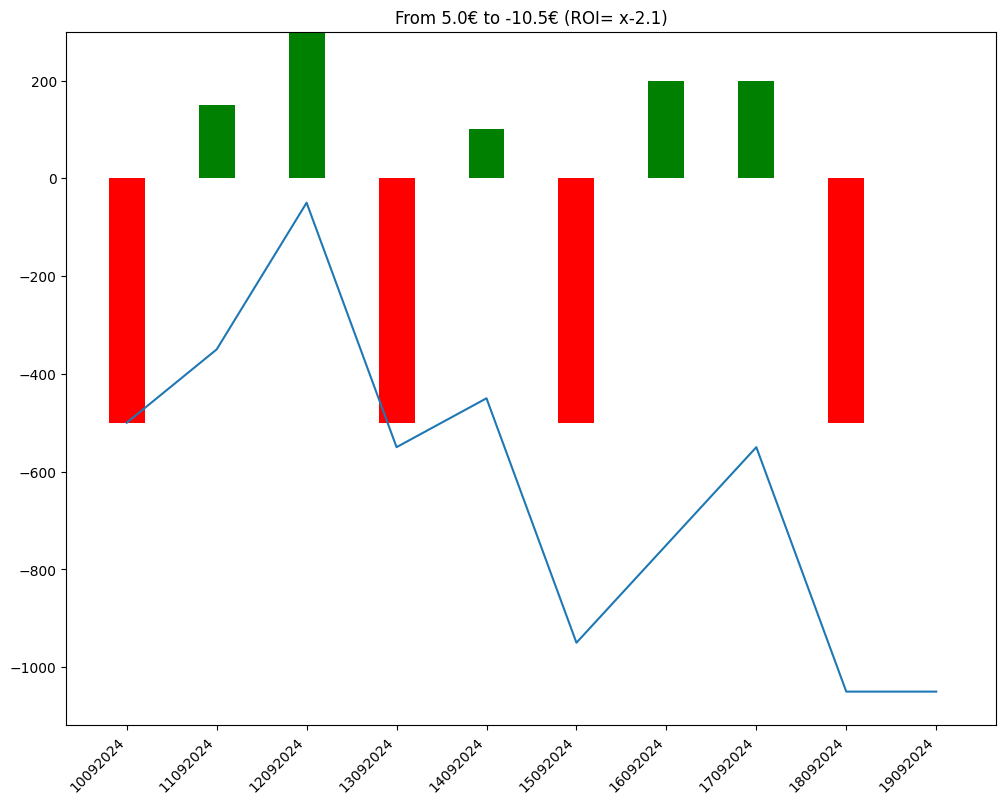
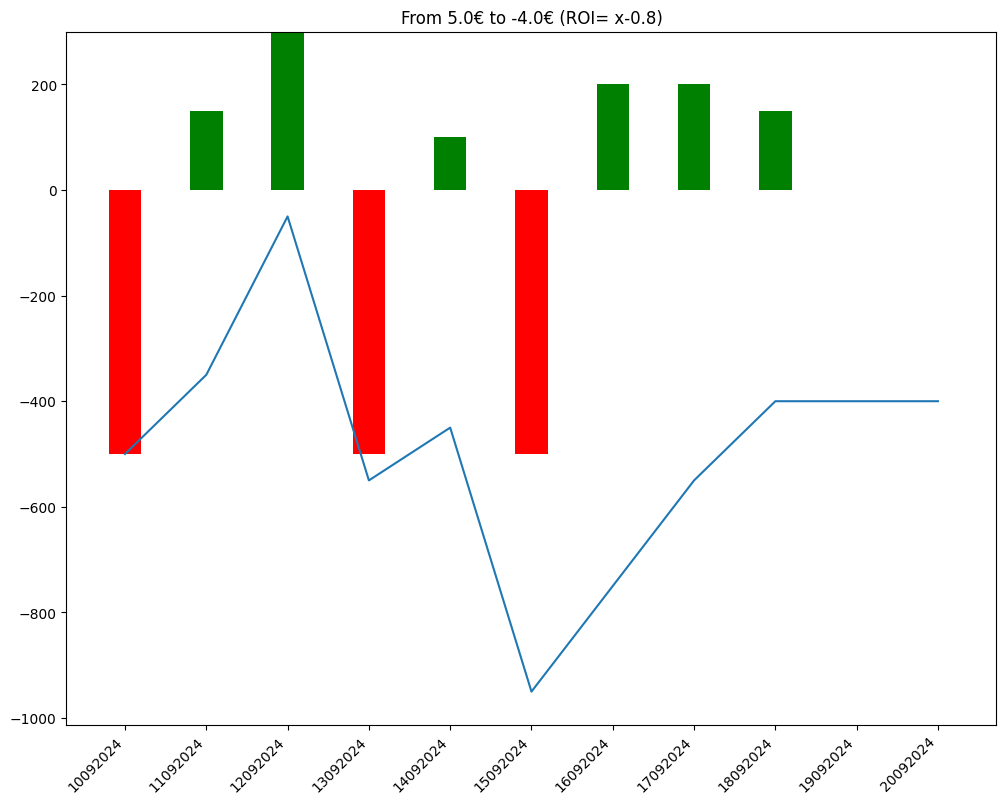
comment from python script

diff --git a/bethistory.html b/bethistory.html
@@ -86,8 +86,9 @@
             En observant la courbe 🤔, on peut avoir une idée visuelle de l'évolution des gains et ainsi évaluer le model utilisé 🧑🏫.
         </p>
         
-        <img src = "/candle.png" alt="candle chart"/><table><tr><td>Chevaux joués</td><td>Gains</td><td>URL Circuits</td></tr><tr><td>9 - SAVE US MELANIA</td><td>0</td><td><a href=https://www.pmu.fr/turf/19092024/r6/c5 target="_blank">https://www.pmu.fr/turf/19092024/r6/c5</a></td></tr>
-<tr><td>9 - CANDY DOLCE</td><td>-500</td><td><a href=https://www.pmu.fr/turf/18092024/r5/c9 target="_blank">https://www.pmu.fr/turf/18092024/r5/c9</a></td></tr>
+        <img src = "/candle.png" alt="candle chart"/><table><tr><td>Chevaux joués</td><td>Gains</td><td>URL Circuits</td></tr><tr><td>1 - ASHNAK</td><td>0</td><td><a href=https://www.pmu.fr/turf/20092024/r4/c3 target="_blank">https://www.pmu.fr/turf/20092024/r4/c3</a></td></tr>
+<tr><td>9 - SAVE US MELANIA</td><td>0</td><td><a href=https://www.pmu.fr/turf/19092024/r6/c5 target="_blank">https://www.pmu.fr/turf/19092024/r6/c5</a></td></tr>
+<tr><td>9 - CANDY DOLCE</td><td>+150</td><td><a href=https://www.pmu.fr/turf/18092024/r5/c9 target="_blank">https://www.pmu.fr/turf/18092024/r5/c9</a></td></tr>
 <tr><td>2 - YOUNG AND PROUD</td><td>+200</td><td><a href=https://www.pmu.fr/turf/17092024/r1/c2 target="_blank">https://www.pmu.fr/turf/17092024/r1/c2</a></td></tr>
 <tr><td>6 - BELLAGIO</td><td>+200</td><td><a href=https://www.pmu.fr/turf/16092024/r1/c2 target="_blank">https://www.pmu.fr/turf/16092024/r1/c2</a></td></tr>
 <tr><td>2 - MAGIC TUNIS</td><td>-500</td><td><a href=https://www.pmu.fr/turf/15092024/r1/c9 target="_blank">https://www.pmu.fr/turf/15092024/r1/c9</a></td></tr>
